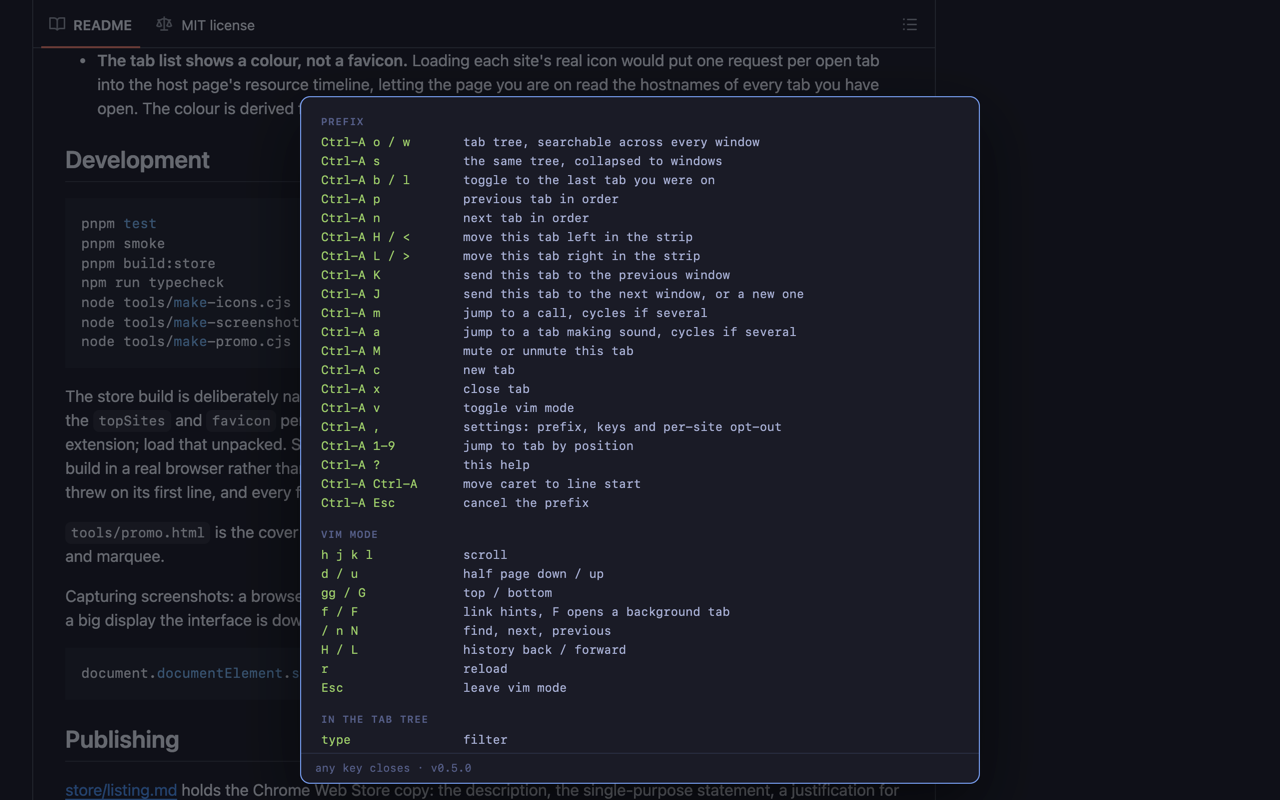
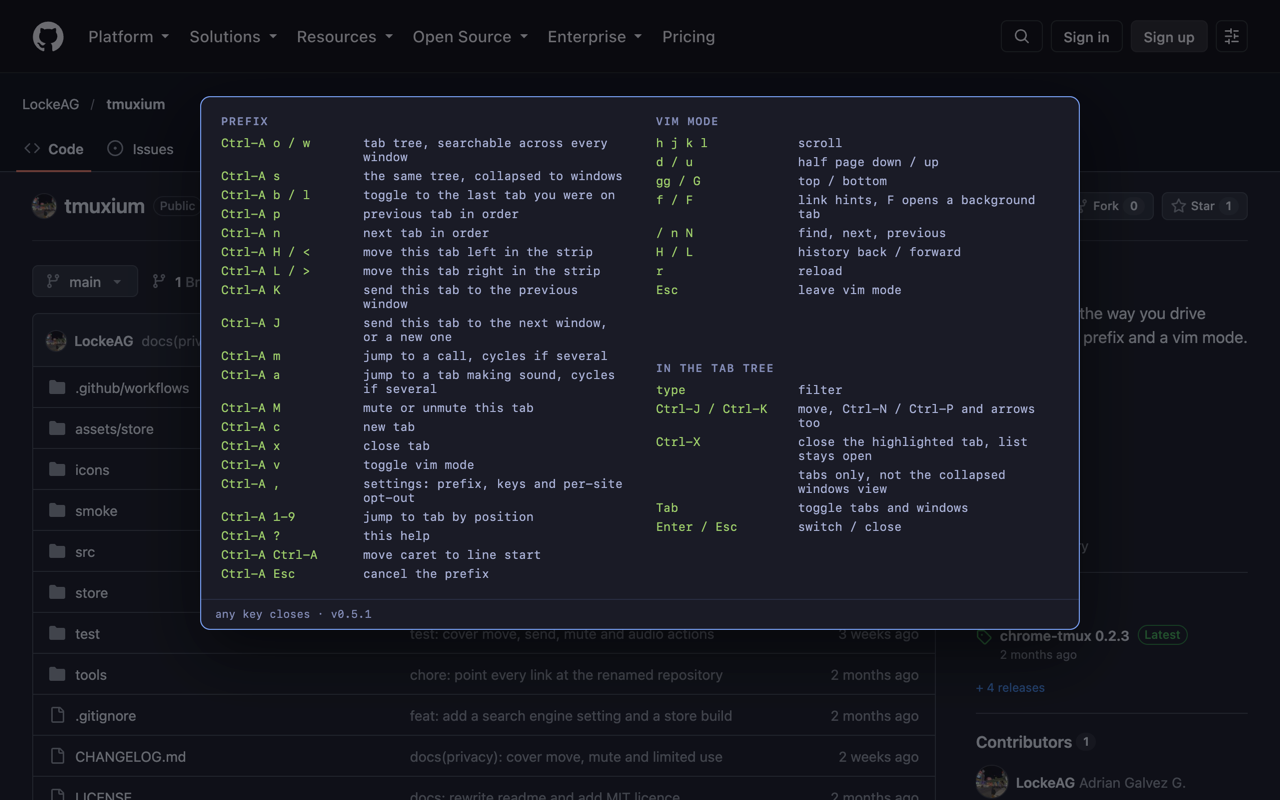
chore: release 0.5.1 with hardening and contrast

diff --git a/CHANGELOG.md b/CHANGELOG.md
@@ -3,13 +3,30 @@
 Notable changes, newest first. Follows [Keep a Changelog](https://keepachangelog.com/en/1.1.0/)
 loosely and [semantic versioning](https://semver.org/).
 
-## Unreleased
+## 0.5.1 - 2026-10-25
 
 ### Changed
 
+- The help screen (`Ctrl-A ?`) shows its sections side by side when the window
+  is wide enough, so the whole list fits on a laptop screen without scrolling.
+- Dim text in the overlay, popup, settings and New Tab Page is brighter, and
+  the light-theme settings accent darker, so every label meets WCAG AA
+  contrast. The popup headings are a step larger.
 - [PRIVACY.md](PRIVACY.md) now covers moving and muting tabs and sending them
   to another window, and states that data use follows the Chrome Web Store
   Limited Use requirements.
+
+### Security
+
+- The background worker checks every field a content script sends before it
+  reaches a Chrome API: the vim mode must be `off` or `vim`, the jump position
+  a whole number from 1 to 9, and tab and window ids whole numbers. A content
+  script runs inside pages the extension does not control.
+- Added [SECURITY.md](SECURITY.md) with a private way to report a hole.
+- Releases are built on GitHub from the tag, with the store zip, its SHA-256
+  and a build attestation attached to the GitHub release.
+- CI runs with read-only permissions and pins every action to a commit.
+  Dependabot keeps the pins and dev dependencies current.
 
 ## 0.5.0 - 2026-10-04
 

diff --git a/store/listing.md b/store/listing.md
@@ -112,9 +112,8 @@ marks yet.
 
 WHAT'S NEW
 
-0.5.0: move the current tab left or right, or send it to another window, from
-the keyboard. Jump to whichever tab is playing sound, and mute it. The tab tree
-marks tabs making sound. Keys you rebound yourself survive the upgrade.
+0.5.1: the help screen fits on a laptop screen, dim text is easier to read,
+and the extension checks every message from a page more strictly.
 
 Full history: https://github.com/LockeAG/tmuxium/blob/main/CHANGELOG.md
 
@@ -218,7 +217,7 @@ https://github.com/LockeAG/tmuxium/blob/main/PRIVACY.md
 - [ ] Rewrite WHAT'S NEW in the description for this release: latest version
       only, a few plain lines, the CHANGELOG link carries the history. The
       description is the field that has been rejected twice, so it stays short
-- [ ] Check `manifest.json` in the zip says `Tmuxium`, version `0.5.0`, and
+- [ ] Check `manifest.json` in the zip says `Tmuxium`, version `0.5.1`, and
       lists exactly `tabs`, `storage`, `scripting`. Every upload must carry a
       higher version than the one before it, so never resubmit on the same
       number, even after a rejection
